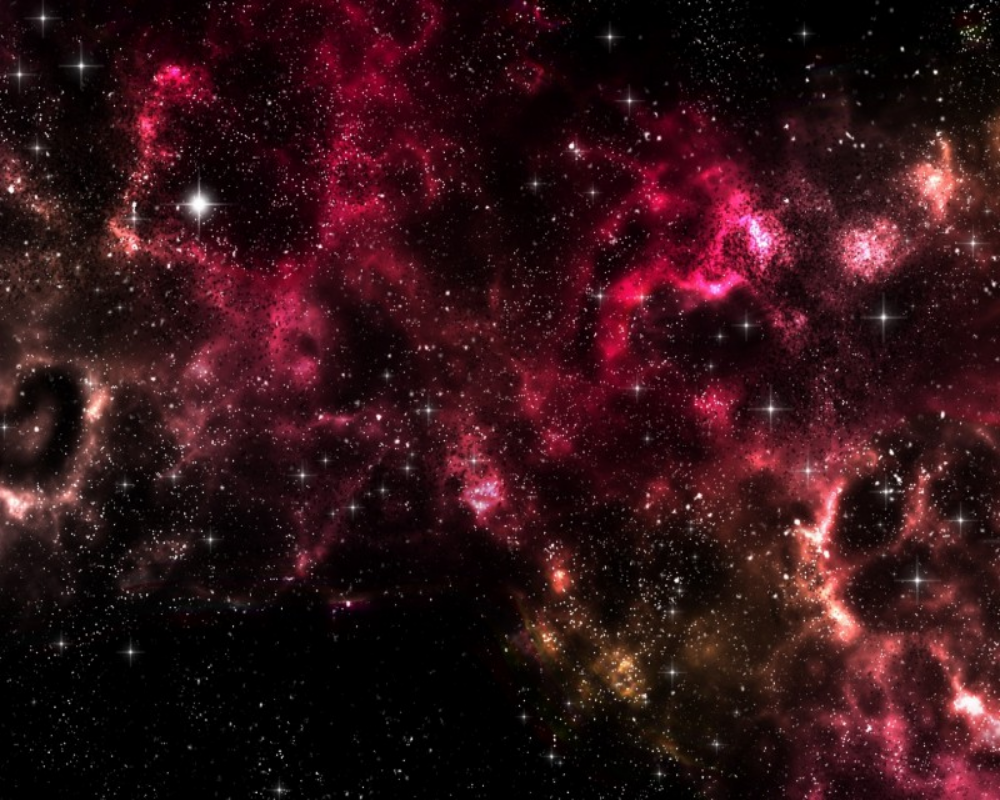
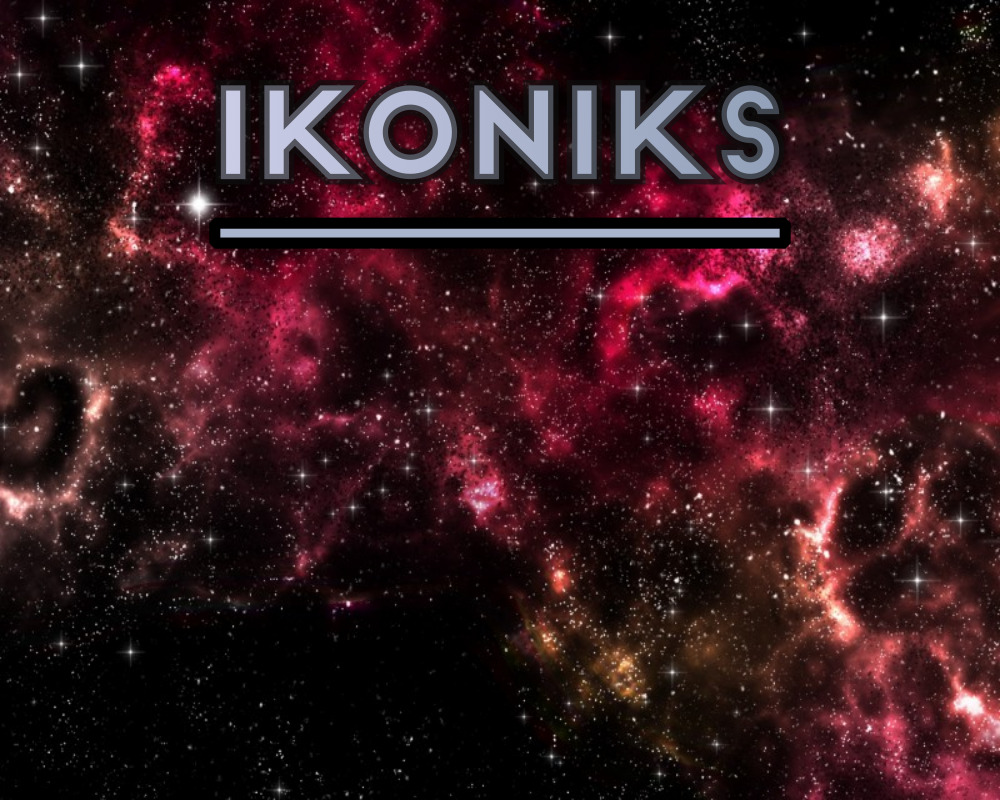
Main Menu Bugfixes
Addressed bugs in start_here.py script (main menu):

Removed game_over image load which wasn't used;
Main menu buttons now only accept left clicks (they accepted any mouse button before);
Removed titlecard image (it is now integrated into the main menu image);
Removed unused if statement in draw_buttons and cleared up docstring;
Replaced sleep (delay) calls with pygame delays and therefore removed time library import;
Fixed correct click animation and sound when pressing 'Quit';
Removed sys.exit calls and sys library import since pygame.quit does the same;
Added pygame.mixer.pre_init to define channels and frequency;
Tiny docstring modification to load_sounds function;
Fixed a bug where you could click main menu buttons while in the info or credits screen (now the third animation is bugged - it doesn't play out, but I'll fix it);
Restructured a part of the 'running' loop for better readability and easier future functionality changes.

Changed region(s): [[0.186, 0.0938, 0.806, 0.3125]]

diff --git a/start_here.py b/start_here.py
@@ -1,15 +1,15 @@
 import pygame
-import sys
 import entry  # Game code module
-import time  # For delay
 
 # Function to load sounds
 def load_sounds():
     """
     Loads sound effects and music for the game.
+    Adjusts volume settings for the sounds.
     """
     global menu_music, game_music, start_sound, infocredits_sound, backquit_sound
-    pygame.mixer.init()  # Initialize the mixer module
+    pygame.mixer.pre_init(44100, -16, 2, 2048)
+    pygame.mixer.init() # Initialize the pygame mixer module
 
     # Load sound effects
     start_sound = pygame.mixer.Sound('sounds/start.ogg')
@@ -47,7 +47,6 @@ def main_menu():
 
     # Load images
     mainmenu = pygame.image.load('images/mainmenu.png')
-    titlecard = pygame.image.load('images/titlecard.png')
     start_buttons = [pygame.image.load(f'images/start-{i}.png') for i in range(1, 4)]
     info_buttons = [pygame.image.load(f'images/info-{i}.png') for i in range(1, 4)]
     credits_buttons = [pygame.image.load(f'images/credits-{i}.png') for i in range(1, 4)]
@@ -55,10 +54,8 @@ def main_menu():
     close_buttons = [pygame.image.load(f'images/close-{i}.png') for i in range(1, 4)]  # Close button variations
     info_bg = pygame.image.load('images/info-bg.png')
     credits_bg = pygame.image.load('images/credits-bg.png')
-    game_over = pygame.image.load('images/credits-bg.png')
 
     # Rectangles for buttons and images
-    titlecard_rect = titlecard.get_rect(center=(WIDTH / 2, HEIGHT / 4))
     button_rects = {
         "start": start_buttons[0].get_rect(center=(WIDTH / 2, HEIGHT / 2 - 25)),
         "info": info_buttons[0].get_rect(center=(WIDTH / 2, HEIGHT / 2 + 85)),
@@ -83,37 +80,41 @@ def main_menu():
         for event in pygame.event.get():
             if event.type == pygame.QUIT:
                 pygame.quit()
-                sys.exit()
-            if event.type == pygame.MOUSEBUTTONDOWN:
+            if event.type == pygame.MOUSEBUTTONDOWN and event.button == 1:
                 for button_name, rect in button_rects.items():
                     if rect.collidepoint(mouse_pos):
-                        current_button_images[button_name] = 2  # Set to 'click' image
-                        screen.blit(mainmenu, (0, 0))
-                        if not (show_info or show_credits):  # Only display titlecard when main menu is visible
-                            screen.blit(titlecard, titlecard_rect)
-                        draw_buttons(screen, current_button_images, start_buttons, info_buttons, credits_buttons, quit_buttons, close_buttons, button_rects)
+                        # Update button state to 'click' (DOESN'T WORK)
+                        current_button_images[button_name] = 2
                         pygame.display.update()
-                        time.sleep(0.1)  # 100ms delay
-                        if button_name == "start" and not (show_info or show_credits):
-                            start_sound.play()
-                            menu_music.stop()
-                            game_music.play(-1)
-                            running = False
-                            entry.start_game()  # Start the game from entry.py
-                        elif button_name == "info":
-                            infocredits_sound.play()
-                            show_info = True
-                        elif button_name == "credits":
-                            infocredits_sound.play()
-                            show_credits = True
-                        elif button_name == "close" and (show_info or show_credits):
+                        
+                        # Process main menu button clicks only when neither info nor credits screen is active
+                        if not (show_info or show_credits):
+                            if button_name == "start":
+                                start_sound.play()
+                                menu_music.stop()
+                                game_music.play(-1)
+                                pygame.time.delay(100)
+                                running = False
+                                entry.start_game()
+                            elif button_name == "info":
+                                infocredits_sound.play()
+                                pygame.time.delay(100)
+                                show_info = True
+                            elif button_name == "credits":
+                                infocredits_sound.play()
+                                pygame.time.delay(100)
+                                show_credits = True
+                            elif button_name == "quit":
+                                backquit_sound.play()
+                                pygame.time.delay(100)
+                                pygame.quit()
+
+                        # Process close button clicks only when info or credits screen is active
+                        if (show_info or show_credits) and button_name == "close":
                             backquit_sound.play()
+                            pygame.time.delay(100)
                             show_info = False
                             show_credits = False
-                        elif button_name == "quit" and not (show_info or show_credits):
-                            pygame.quit()
-                            sys.exit()
-                        current_button_images[button_name] = 0  # Reset to 'normal' image
 
         # Update button images based on hover
         for button_name, rect in button_rects.items():
@@ -123,30 +124,26 @@ def main_menu():
                 current_button_images[button_name] = 0  # Reset to 'normal' image
 
         screen.blit(mainmenu, (0, 0))
-        if not (show_info or show_credits):  # Only display titlecard when main menu is visible
-            screen.blit(titlecard, titlecard_rect)
-        draw_buttons(screen, current_button_images, start_buttons, info_buttons, credits_buttons, quit_buttons, close_buttons, button_rects)
+        draw_buttons(screen, current_button_images, start_buttons, info_buttons, credits_buttons, quit_buttons, button_rects)
 
         if show_info:
             screen.blit(info_bg, (0, 0))
-            screen.blit(close_buttons[current_button_images["close"]], button_rects["close"])  # Use current close button image
+            screen.blit(close_buttons[current_button_images["close"]], button_rects["close"])
         elif show_credits:
             screen.blit(credits_bg, (0, 0))
-            screen.blit(close_buttons[current_button_images["close"]], button_rects["close"])  # Use current close button image
+            screen.blit(close_buttons[current_button_images["close"]], button_rects["close"])
 
         pygame.display.update()
 
-def draw_buttons(screen, current_button_images, start_buttons, info_buttons, credits_buttons, quit_buttons, close_buttons, button_rects):
+
+def draw_buttons(screen, current_button_images, start_buttons, info_buttons, credits_buttons, quit_buttons, button_rects):
     """
     Handles button drawing in the main menu.
-    Ensures the close button only shows up in the credits and info screen.
     """
     screen.blit(start_buttons[current_button_images["start"]], button_rects["start"])
     screen.blit(info_buttons[current_button_images["info"]], button_rects["info"])
     screen.blit(credits_buttons[current_button_images["credits"]], button_rects["credits"])
     screen.blit(quit_buttons[current_button_images["quit"]], button_rects["quit"])
-    if current_button_images["close"] != 0 and current_button_images["close"] != 1 and current_button_images["close"] != 2:  # Draw close button only if it's not in the normal state
-        screen.blit(close_buttons[current_button_images["close"]], button_rects["close"])
 
 # Check if this script is being run directly (not imported as a module)
 if __name__ == "__main__":
